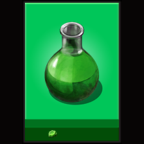
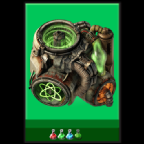
Update thumbnail

diff --git a/src/TODO.md b/src/TODO.md
@@ -1,0 +1,7 @@
+# TODO
+
+- [ ] Update mod icon
+- [ ] Atom forge circuit wire placement
+- [ ] Atom forge preview margins
+- [X] Atom forge technology
+- [X] Inital atom forge entity
